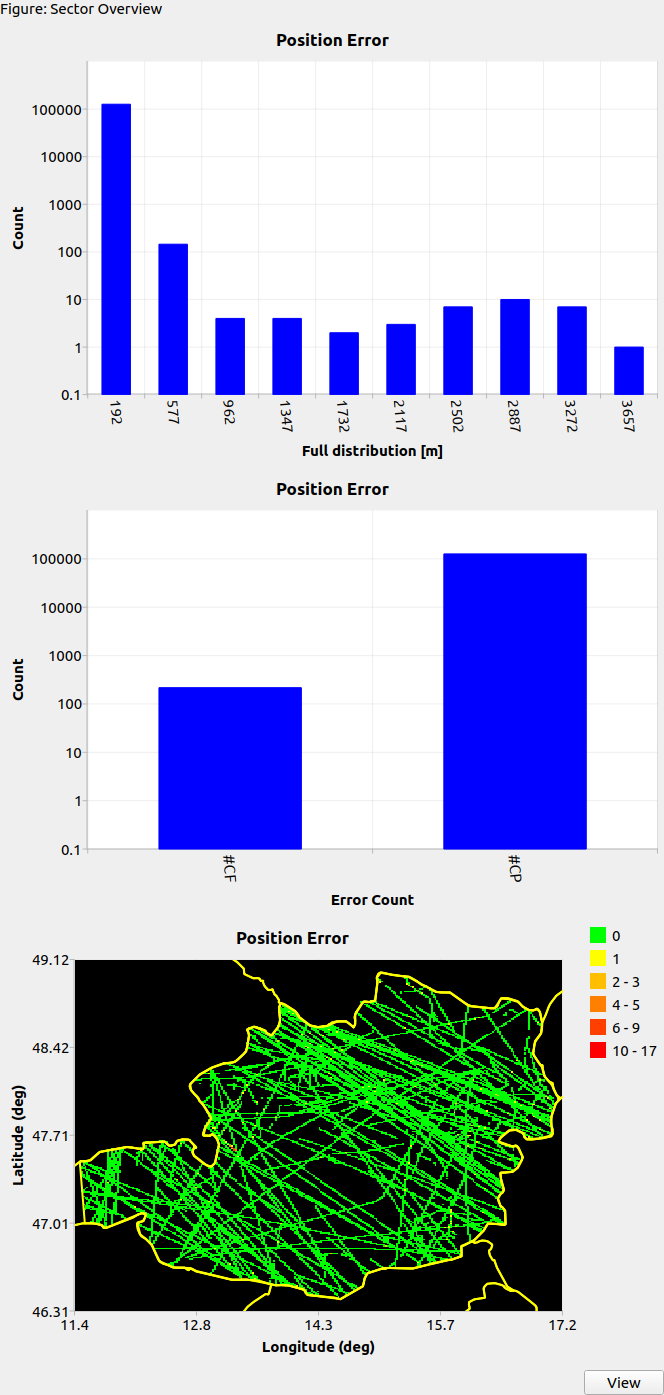
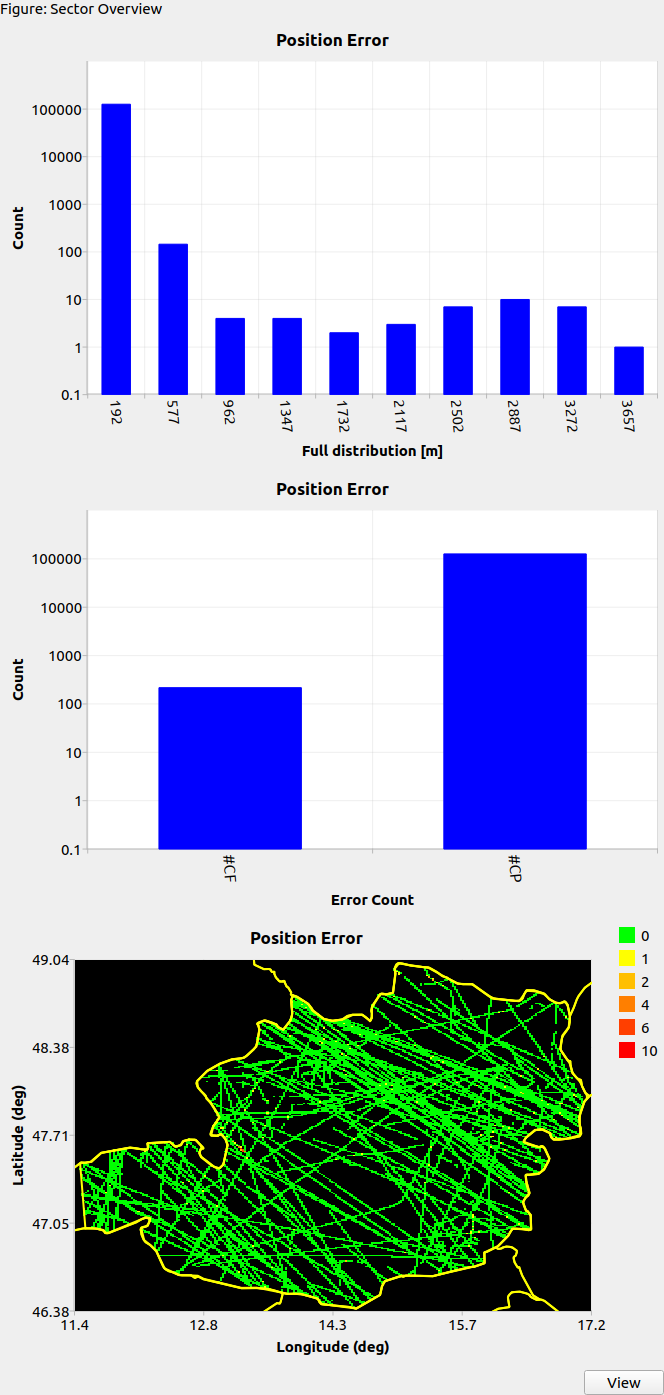
Issue count grids: one legend value per color, as in the Grid View
Each legend entry gives the lowest issue count of its color. Manual text
and the three overview grid screenshots updated.

Changed region(s): [[0.0904, 0.6473, 0.994, 0.9864]]

diff --git a/src/eval/unit_tests/test_issue_count_grid.cpp b/src/eval/unit_tests/test_issue_count_grid.cpp
@@ -73,8 +73,9 @@ TEST_CASE("issue count grid colors and legend", "[eval][issuecountgrid]")
         CHECK(rs.color_map.sampleValue(1.0)    == yellow);
         CHECK(rs.color_map.sampleValue(1000.0) == red);
 
-        //1000^0.2 = 3.98: 1 - 3, 4 - 15, 16 - 63, 64 - 251, 252 - 1000 (the maximum has the color of the last step)
-        CHECK(texts(rs.legend_entries) == std::vector<std::string>{ "0", "1 - 3", "4 - 15", "16 - 63", "64 - 251", "252 - 1000" });
+        //1000^0.2 = 3.98: 1 - 3, 4 - 15, 16 - 63, 64 - 251, 252 - 1000 (the maximum has the color of the last step),
+        //the legend gives the lowest count of each color
+        CHECK(texts(rs.legend_entries) == std::vector<std::string>{ "0", "1", "4", "16", "64", "252" });
 
         //each legend entry has the color the grid gives its counts
         CHECK(rs.legend_entries.entries()[ 1 ].first == rs.color_map.sampleValue(3.0));
@@ -88,11 +89,8 @@ TEST_CASE("issue count grid colors and legend", "[eval][issuecountgrid]")
 
         const auto t = texts(rs.legend_entries);
 
-        REQUIRE(t.size() >= 2);
-        CHECK(t.front() == "0");
-        CHECK(t[ 1 ].rfind("1", 0) == 0);
-        CHECK(t.back().find("3") != std::string::npos);
-        CHECK(t.size() <= 4);
+        //1 yellow, 3 red (the maximum), 2 between: one entry per count
+        CHECK(t == std::vector<std::string>{ "0", "1", "2", "3" });
     }
 
     SECTION("the render settings survive the view point JSON")

diff --git a/src/eval/results/base/featuredefinition_grid.h b/src/eval/results/base/featuredefinition_grid.h
@@ -360,7 +360,8 @@ public:
 
     /**
      * Color map and legend for the issue counts 0 to max_issues: 0 green, then yellow to red in logarithmic
-     * steps from 1 to the maximum. The legend lists the counts of each color that can occur.
+     * steps from 1 to the maximum. The legend lists, as in the Grid View, one count per color: the lowest count
+     * of the color, for the colors that can occur.
     */
     static Grid2DRenderSettings renderSettings(unsigned int max_issues)
     {
@@ -397,8 +398,7 @@ public:
             while (last < max_issues && rs.color_map.sampleValue(last + 1) == color)
                 ++last;
 
-            legend.addEntry(color, first == last ? std::to_string(first)
-                                                 : std::to_string(first) + " - " + std::to_string(last));
+            legend.addEntry(color, std::to_string(first));
             first = last + 1;
         }
 

diff --git a/doc/user_manual/eval/eval_inspect.tex b/doc/user_manual/eval/eval_inspect.tex
@@ -42,7 +42,7 @@ Different requirement results may use different views to display additional resu
 \begin{itemize}
 \item Green: the cell has target reports, none of them with an issue
 \item Yellow to red: the number of issues, from 1 to the highest number of the grid, on a logarithmic scale
-\item The legend lists the numbers of issues of each color
+\item The legend gives the lowest number of issues of each color, as in the Grid View
 \item Cells without target reports have no color
 \end{itemize}
 \item Per-target issue display: Mark test target reports with issues with red border, green otherwise
